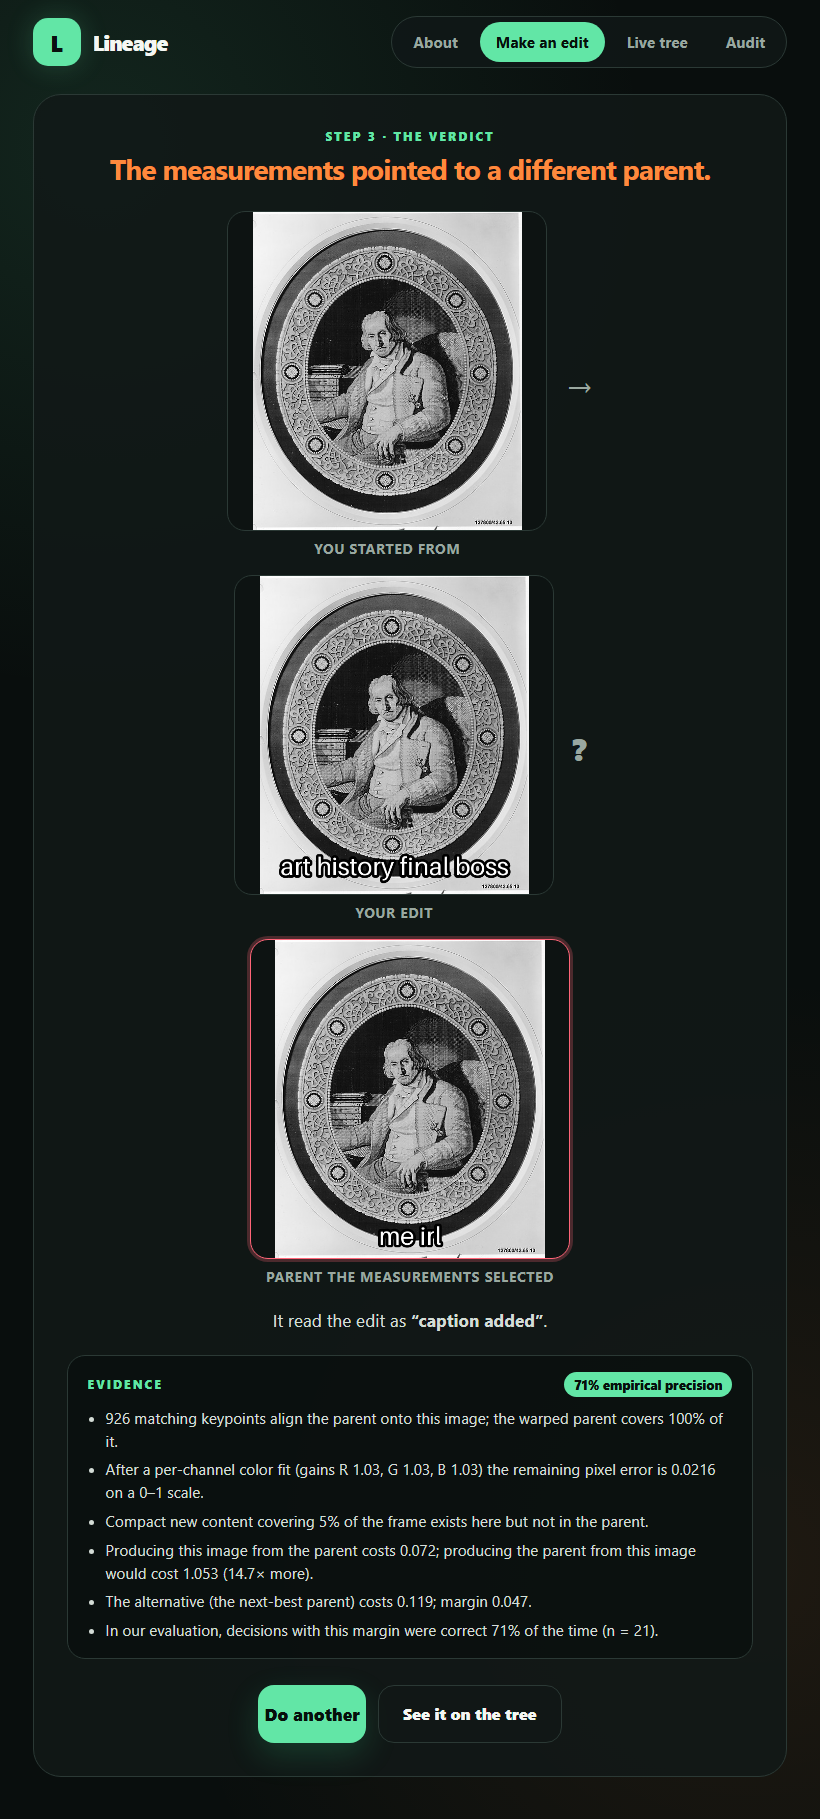
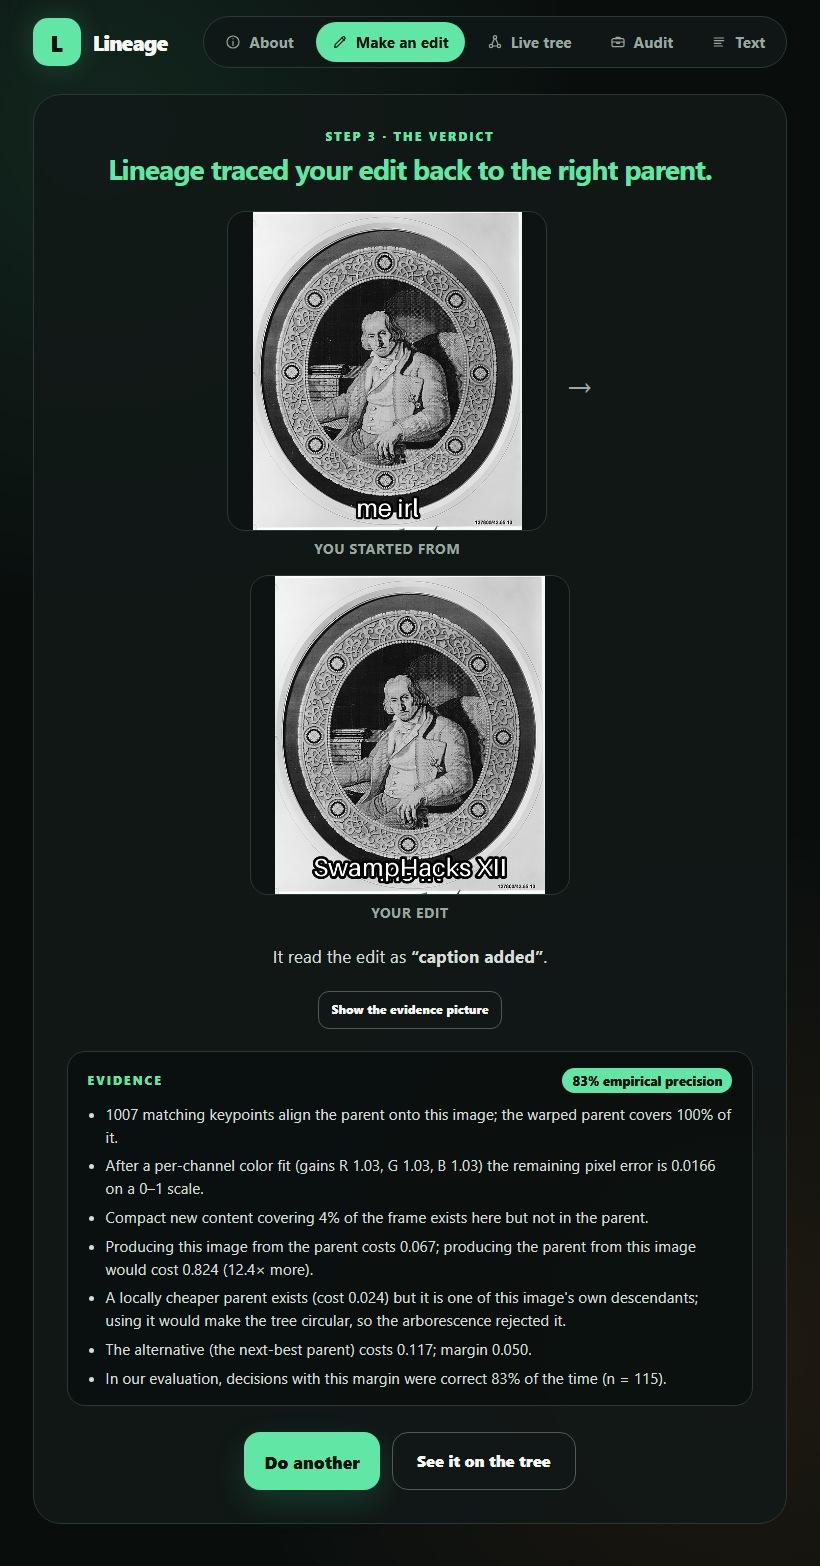
docs: refreshed screenshots (tree with QR header, audit with diff, verdict with evidence picture, landing with calibration); PLAN

diff --git a/PLAN.md b/PLAN.md
@@ -125,6 +125,9 @@ are, and an exportable report.
       in the audit panel (and on /tree?admin=1) with an admin-token prompt; low-memory mode badge from /api/health
 - [x] Per-client cooldown on /api/edit (EDIT_COOLDOWN_S) against tap spam from phones
 - [x] /method page: every cost term with weight and direction logic, pipeline, evidence/calibration, limitations
+- [x] "Load a sample case" (POST /api/cases/sample cuts one demo family into a case); tablet shows a live cooldown
+      countdown on 429 and scrolls to the verdict (Codex, quota back ~03:40)
+- [x] README screenshots refreshed from the current UI
 
 ## Phase 5 — second media type: text (started 2026-10-17 ~02:30 ET)
 - [x] Media plug-in interface (lineage/media.py); Engine takes any plug-in; evidence accepts plug-in reasons
